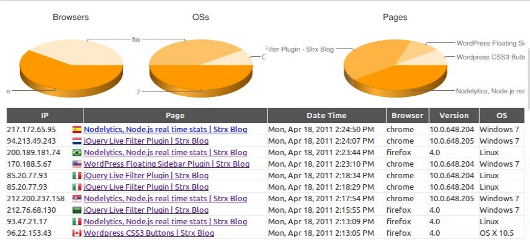
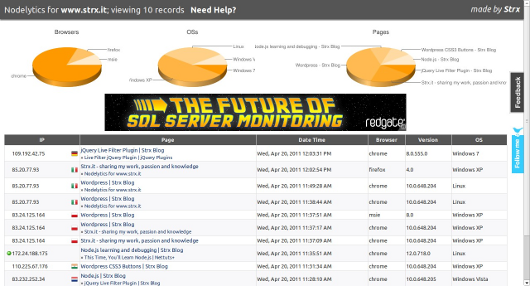
Script version with referrer and spy support
git-svn-id: https://plugins.svn.wordpress.org/nodelytics/trunk@375174 b8457f37-d9ea-0310-8a92-e5e31aec5664

diff --git a/nodelytics.php b/nodelytics.php
@@ -3,7 +3,7 @@
 Plugin Name: Nodelytics
 Plugin URI: http://www.strx.it/2011/04/nodelytics-node-js-real-time-stats/
 Description: Add Nodelytics code to enable real time statistics for your site
-Version: 1.0.1
+Version: 1.1.0
 Author: Strx
 Author URI: http://www.strx.it
 License: GPL2
@@ -28,7 +28,8 @@ function nodelytics_start(){
 	if (!is_user_logged_in()){
 		//$opts['outline']=0;
 	}
-  echo '<img src="http://nodelytics.strx.it/gif" style="position:fixed; right:0; bottom:0; border:0; margin:0; padding:0; opacity:0;">';
+  //echo '<img src="http://nodelytics.strx.it/gif" style="position:fixed; right:0; bottom:0; border:0; margin:0; padding:0; opacity:0;">';
+  echo '<script type="text/javascript" src="http://nodelytics.strx.it/script"></script>';
 }
 
 function nodelytics_settings_menu(){
